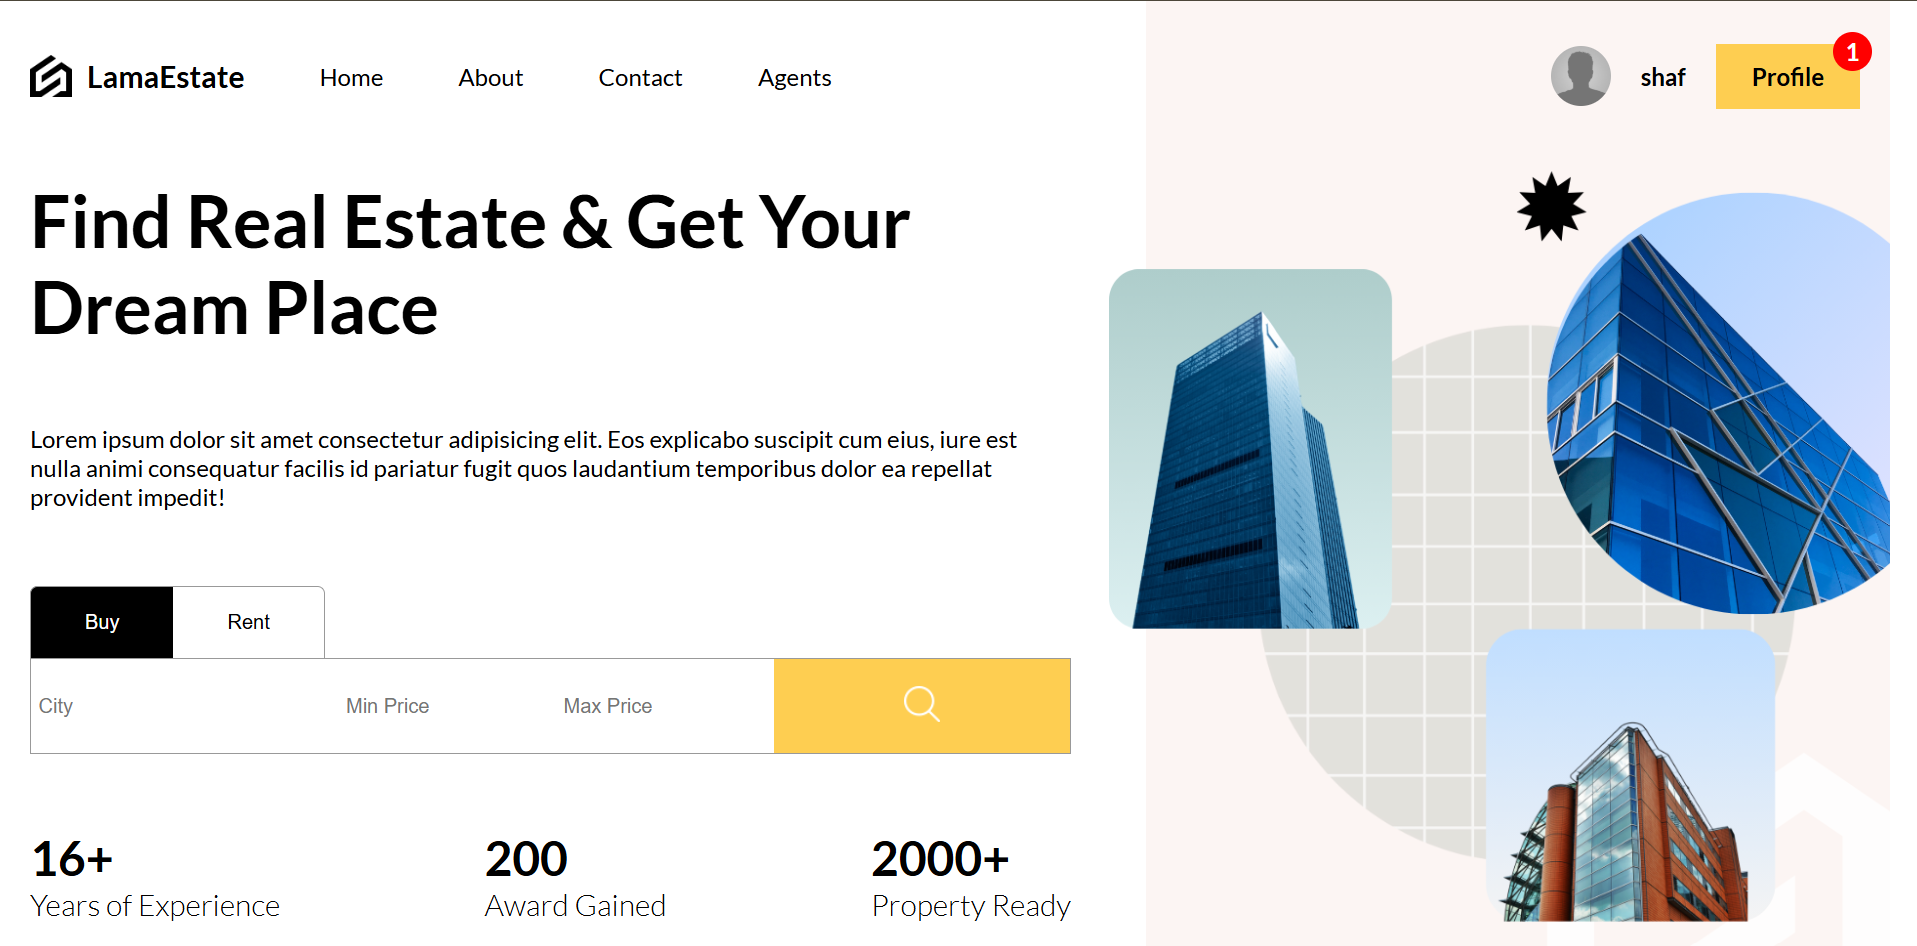
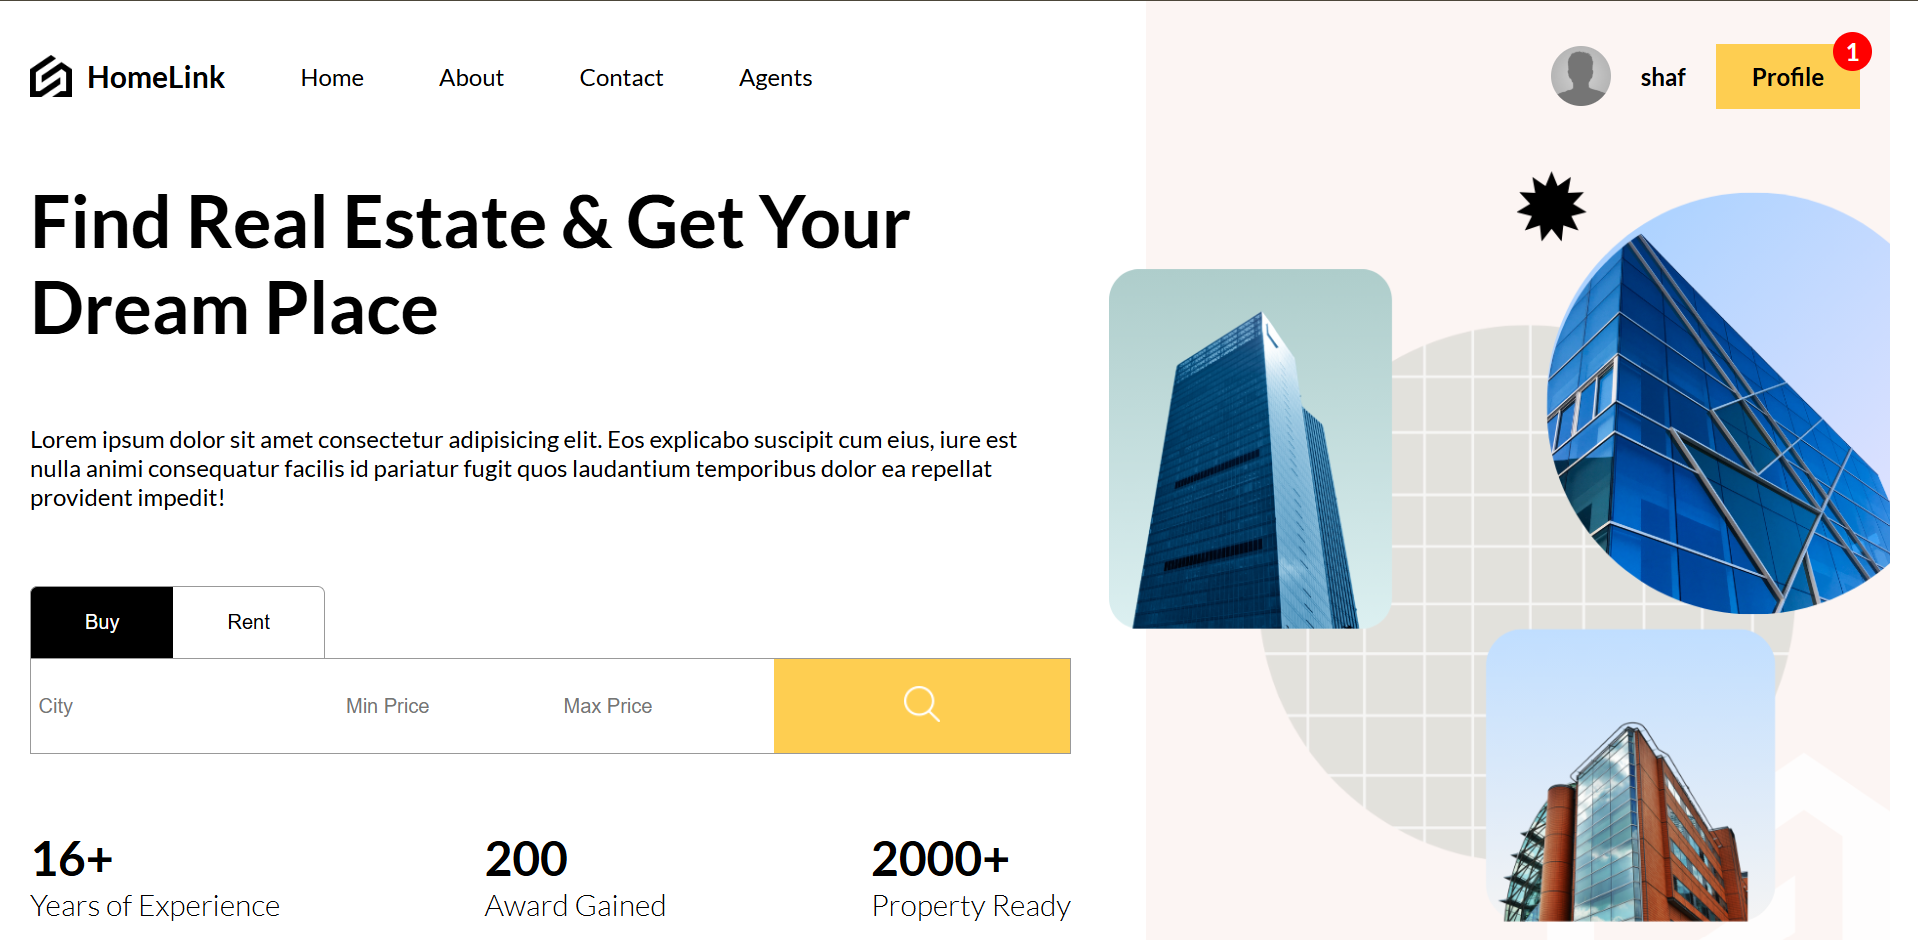
updated images

diff --git a/client/src/components/navbar/Navbar.jsx b/client/src/components/navbar/Navbar.jsx
@@ -19,7 +19,7 @@ function Navbar() {
       <div className="left">
         <a href="/" className="logo">
           <img src="/logo.png" alt="" />
-          <span>LamaEstate</span>
+          <span>HomeLink</span>
         </a>
         <a href="/">Home</a>
         <a href="/">About</a>
